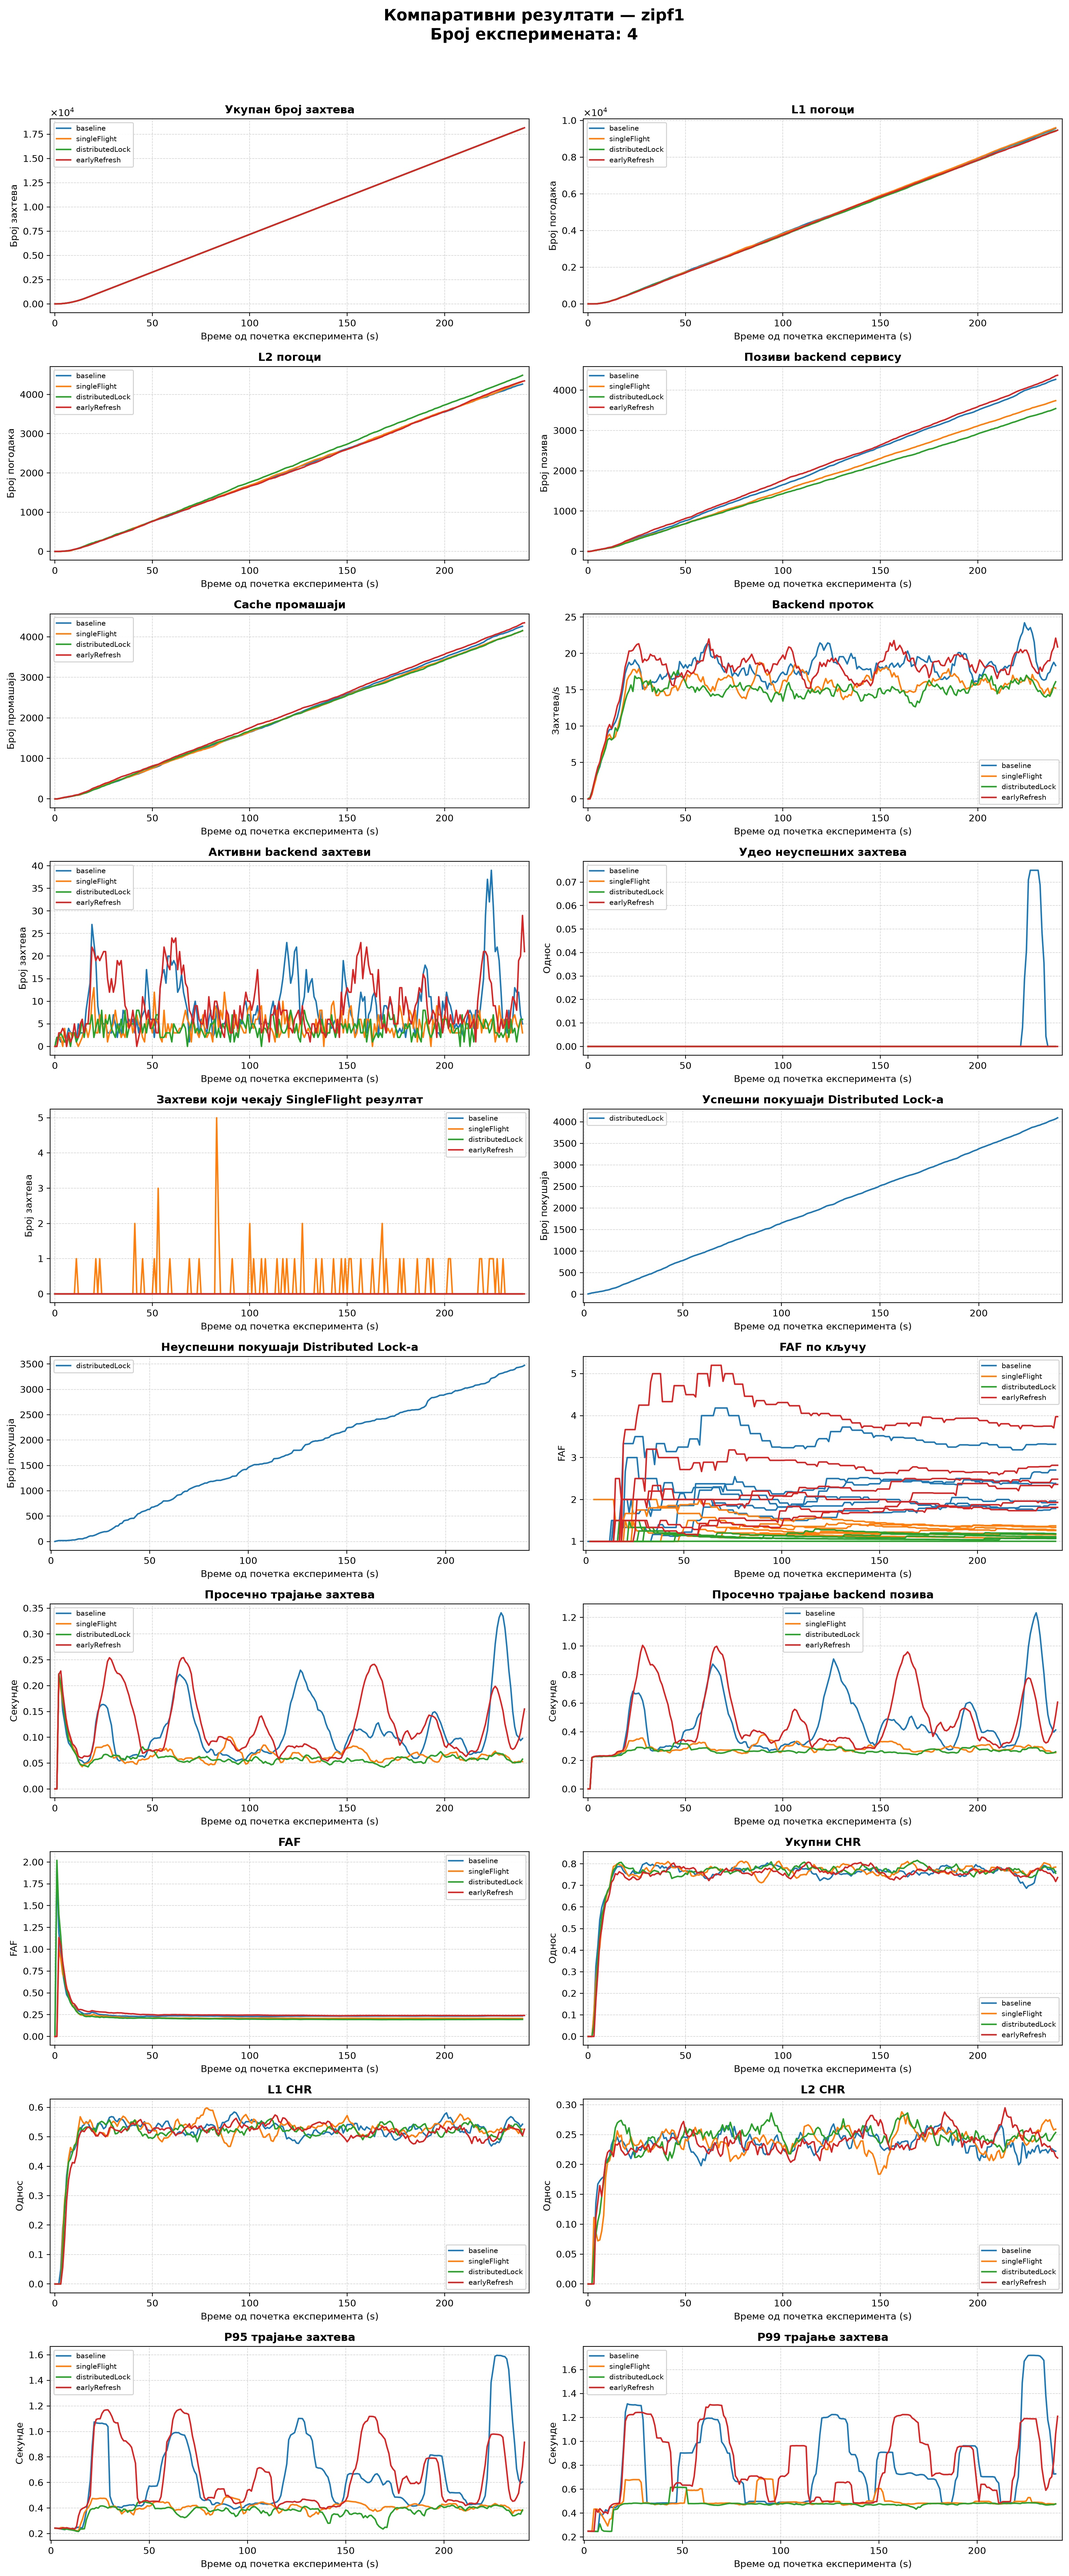
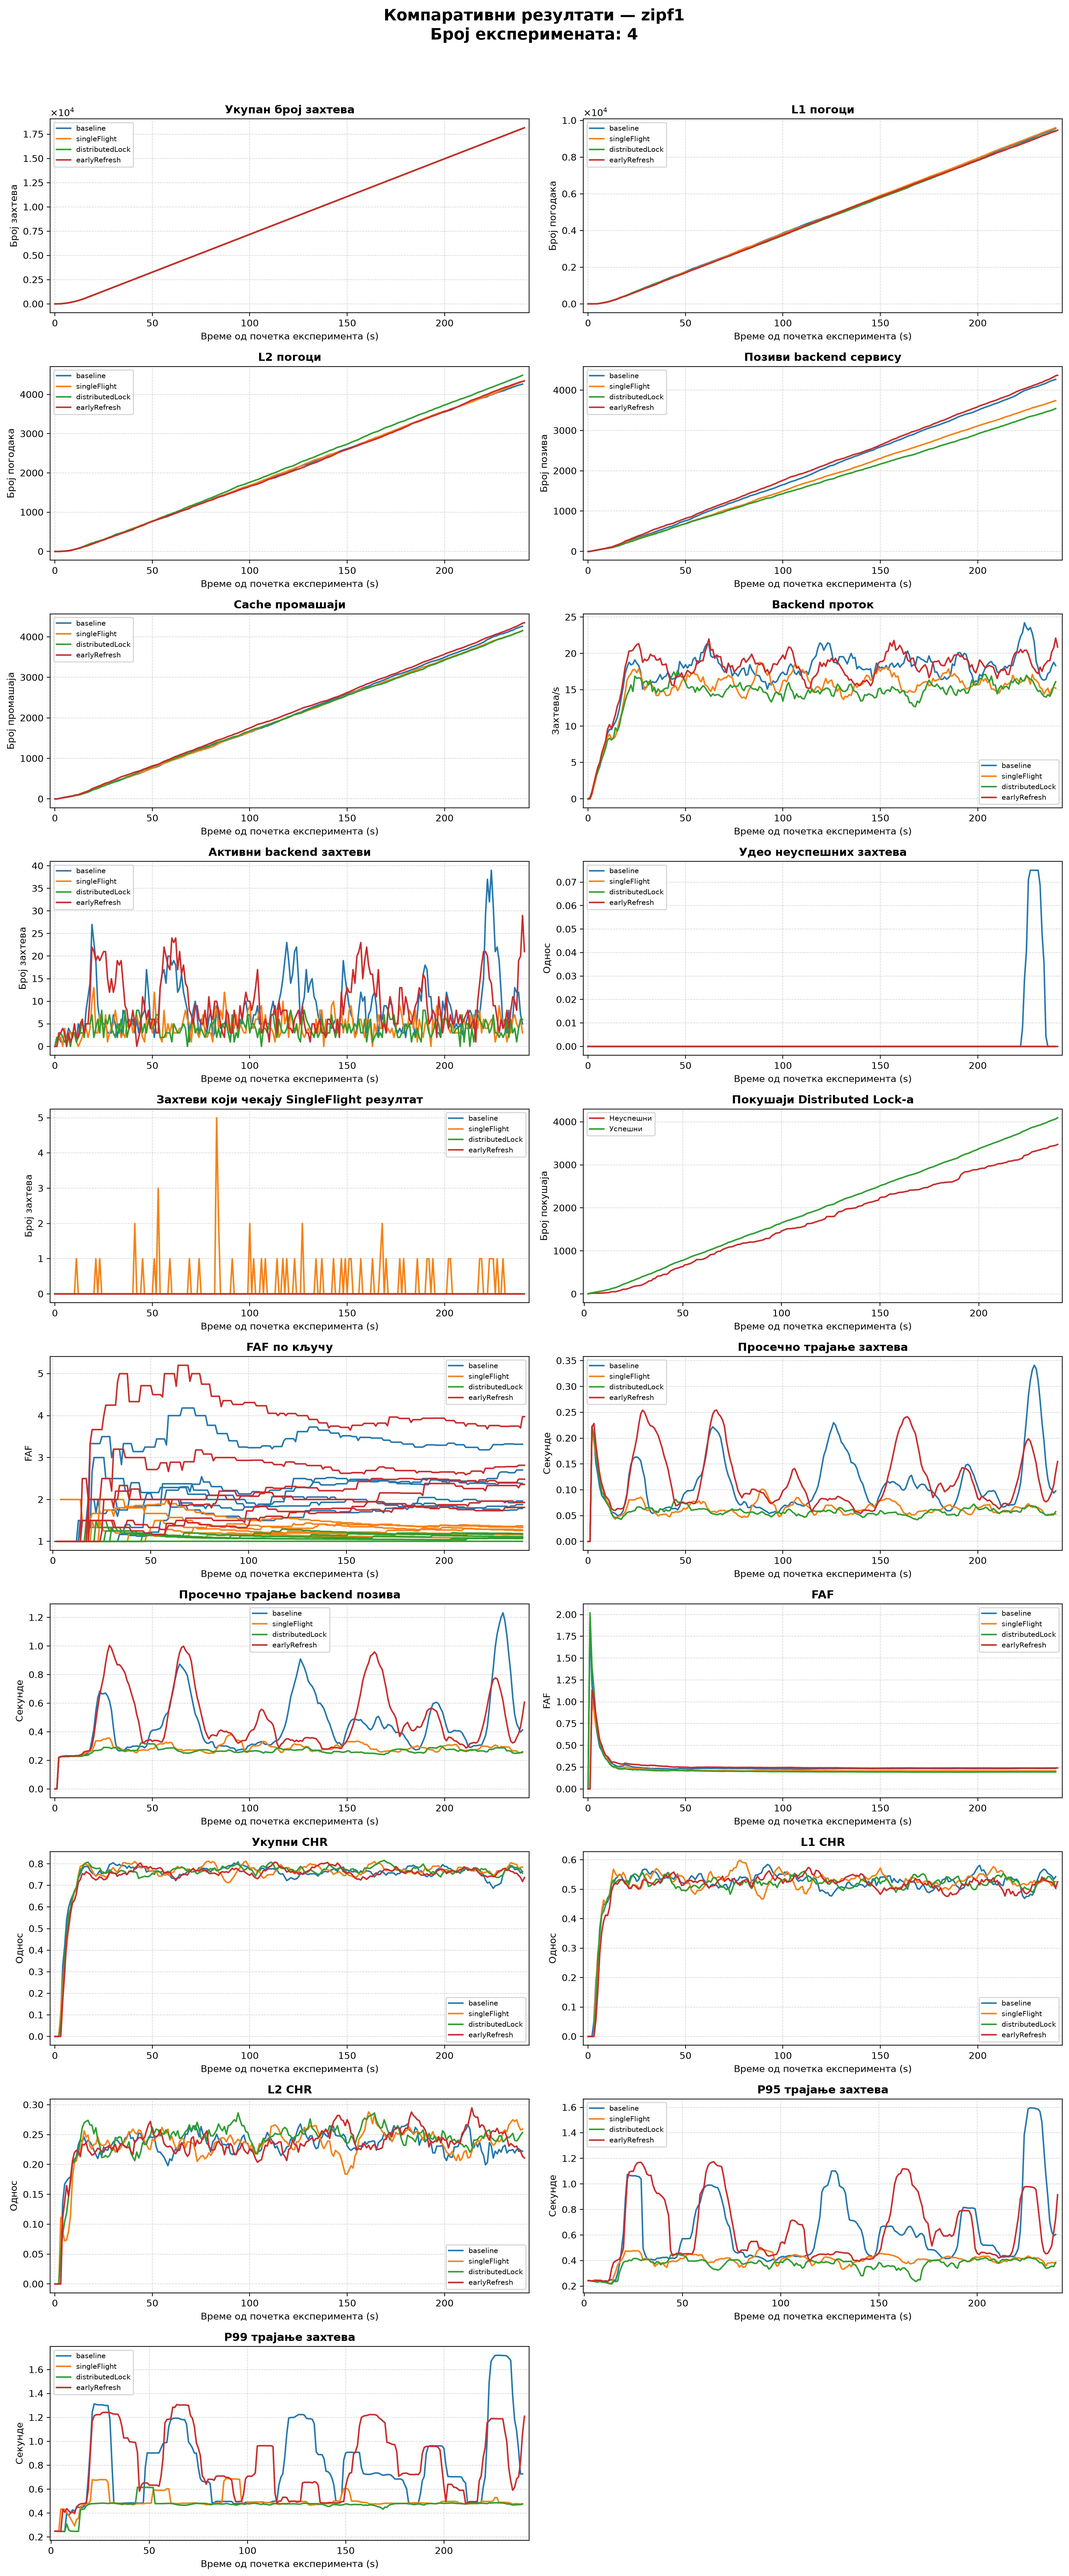
fix (experiments): distributed lock plot fix

diff --git a/experiments/plot_results.py b/experiments/plot_results.py
@@ -42,6 +42,7 @@ METRIC_TITLES = {
     "distributed_lock_failed": (
         "Неуспешни покушаји Distributed Lock-а"
     ),
+    "distributed_lock_attempts": "Покушаји Distributed Lock-а",
     "faf_by_key": "FAF по кључу",
     "average_request_duration": (
         "Просечно трајање захтева"
@@ -71,6 +72,7 @@ METRIC_UNITS = {
     "singleflight_waiting_requests": "Број захтева",
     "distributed_lock_successful": "Број покушаја",
     "distributed_lock_failed": "Број покушаја",
+    "distributed_lock_attempts": "Број покушаја",
     "faf_by_key": "FAF",
     "average_request_duration": "Секунде",
     "average_backend_duration": "Секунде",
@@ -93,8 +95,7 @@ METRIC_ORDER = [
     "active_backend_requests",
     "failed_request_ratio",
     "singleflight_waiting_requests",
-    "distributed_lock_successful",
-    "distributed_lock_failed",
+    "distributed_lock_attempts",
     "faf_by_key",
     "average_request_duration",
     "average_backend_duration",
@@ -353,6 +354,14 @@ def add_display_names(frame: pd.DataFrame) -> pd.DataFrame:
 def ordered_metrics(frame: pd.DataFrame) -> list[str]:
     available = set(frame["metric"].unique())
 
+    distributed_lock_metrics = {
+        "distributed_lock_successful",
+        "distributed_lock_failed",
+    }
+    if available & distributed_lock_metrics:
+        available -= distributed_lock_metrics
+        available.add("distributed_lock_attempts")
+
     known_metrics = [
         metric
         for metric in METRIC_ORDER
@@ -424,9 +433,19 @@ def plot_metric(
     frame: pd.DataFrame,
     metric: str,
 ) -> None:
-    metric_frame = frame[
-        frame["metric"] == metric
-    ].copy()
+    if metric == "distributed_lock_attempts":
+        metric_frame = frame[
+            frame["metric"].isin(
+                {
+                    "distributed_lock_successful",
+                    "distributed_lock_failed",
+                }
+            )
+        ].copy()
+    else:
+        metric_frame = frame[
+            frame["metric"] == metric
+        ].copy()
 
     distinct_series = set(metric_frame["series"])
     has_multiple_series = (
@@ -439,6 +458,8 @@ def plot_metric(
         "_display_name",
         "series",
     ]
+    if metric == "distributed_lock_attempts":
+        group_columns.append("metric")
 
     experiment_colors: dict[str, str] = {}
     labeled_faf_experiments: set[str] = set()
@@ -452,14 +473,21 @@ def plot_metric(
             for index, experiment_id in enumerate(experiment_ids)
         }
 
-    for (
-        experiment_id,
-        display_name,
-        series,
-    ), group in metric_frame.groupby(
+    labeled_lock_metrics: set[str] = set()
+
+    for group_key, group in metric_frame.groupby(
         group_columns,
         sort=True,
     ):
+        experiment_id = group_key[0]
+        display_name = group_key[1]
+        series = group_key[2]
+        lock_metric = (
+            group_key[3]
+            if metric == "distributed_lock_attempts"
+            else ""
+        )
+
         group = group.sort_values(
             "relative_time_seconds"
         )
@@ -473,7 +501,16 @@ def plot_metric(
             .mean()
         )
 
-        if metric == "faf_by_key":
+        if metric == "distributed_lock_attempts":
+            lock_labels = {
+                "distributed_lock_successful": "Успешни",
+                "distributed_lock_failed": "Неуспешни",
+            }
+            label = "_nolegend_"
+            if lock_metric not in labeled_lock_metrics:
+                label = lock_labels[lock_metric]
+                labeled_lock_metrics.add(lock_metric)
+        elif metric == "faf_by_key":
             label = "_nolegend_"
             if experiment_id not in labeled_faf_experiments:
                 label = str(display_name)
@@ -492,6 +529,12 @@ def plot_metric(
 
         if metric == "faf_by_key":
             plot_options["color"] = experiment_colors[experiment_id]
+        elif metric == "distributed_lock_attempts":
+            lock_colors = {
+                "distributed_lock_successful": "tab:green",
+                "distributed_lock_failed": "tab:red",
+            }
+            plot_options["color"] = lock_colors[lock_metric]
 
         axis.plot(
             group["relative_time_seconds"],
